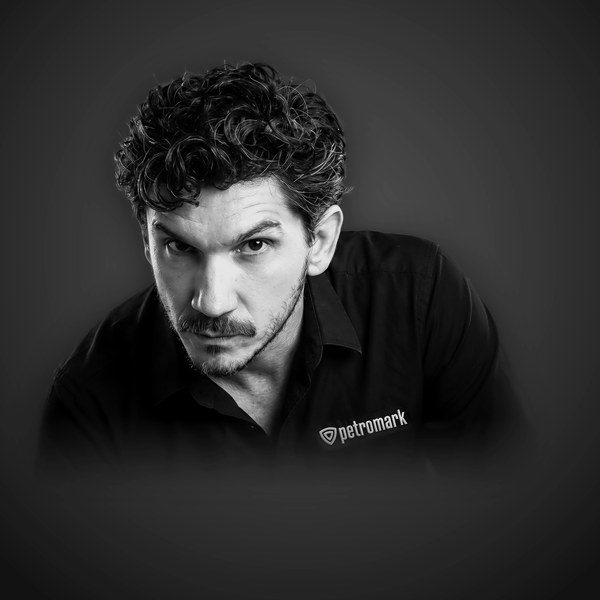
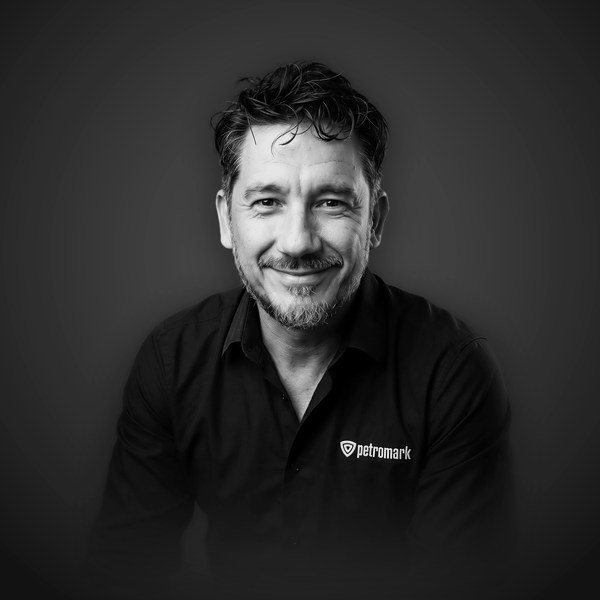
Actualiza foto de Luis Amenabar

diff --git a/fotos.py b/fotos.py
@@ -23,11 +23,11 @@ HEADROOM = 0.10                 # aire sobre la cabeza, fracción del lado
 ZOOM = 6.0                      # lado del recorte = ZOOM × ancho de la cara
 ESPEJO = set()                     # personas cuya foto se voltea horizontalmente
 FADE = 0.24                       # alto del desvanecido del torso, fracción del lado
-FADE_POR_SLUG = {"lamenabar": 0.12}
+FADE_POR_SLUG = {}
 ZOOM_POR_SLUG = {                 # ajustes puntuales aprobados por el usuario (más alto = más lejos)
     "ecanullo": 5.0,
     "rparra": 3.4,
-    "lamenabar": 2.9,
+    "lamenabar": 3.8,
 }
 FONDO_CENTRO = (0x4a, 0x4a, 0x4d)
 FONDO_BORDE = (0x14, 0x12, 0x10)
